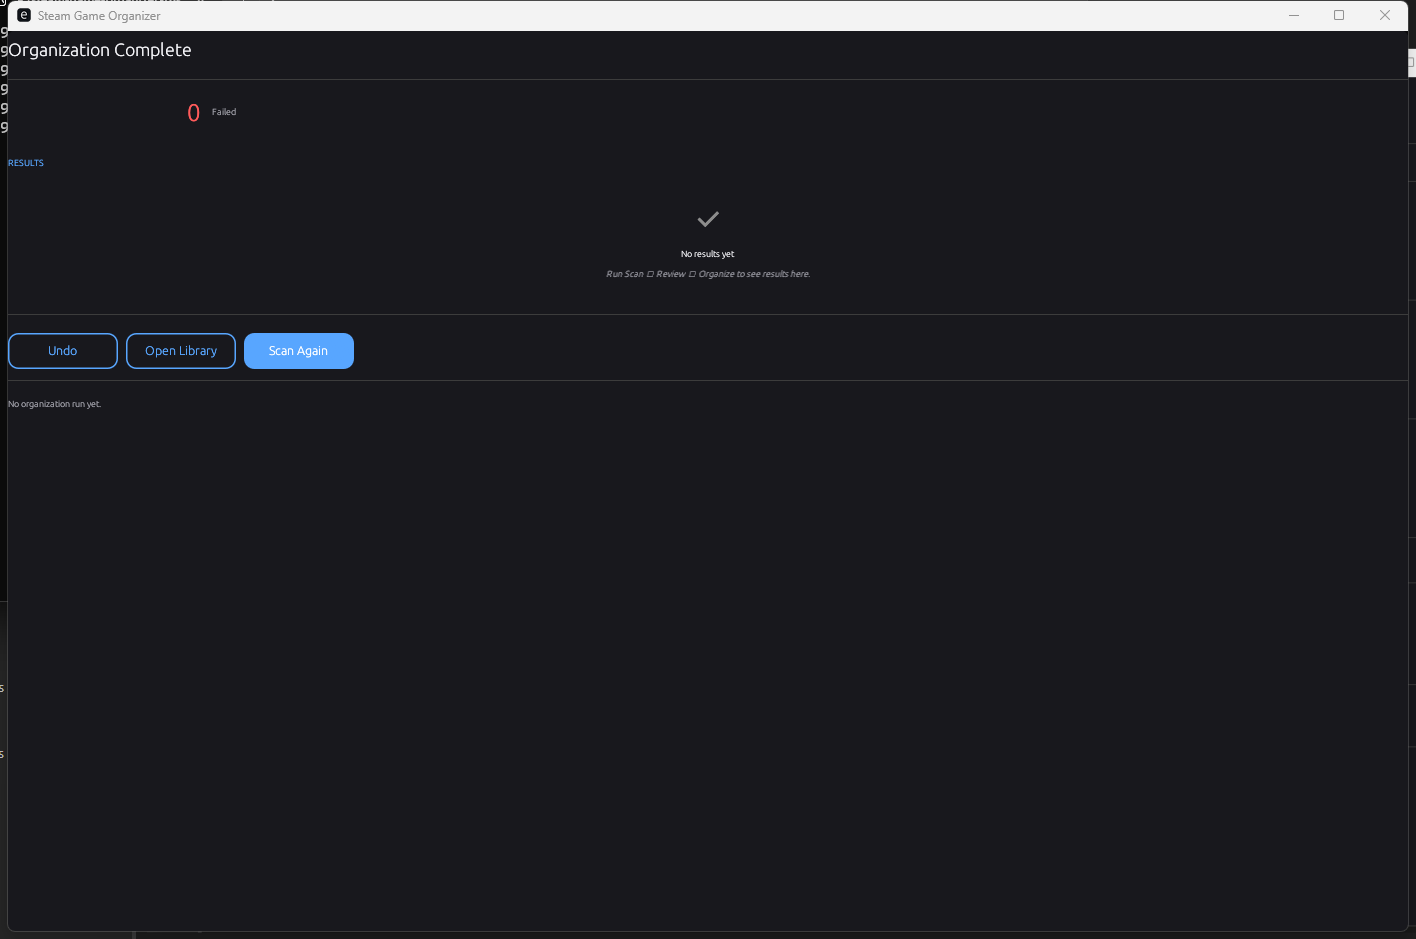
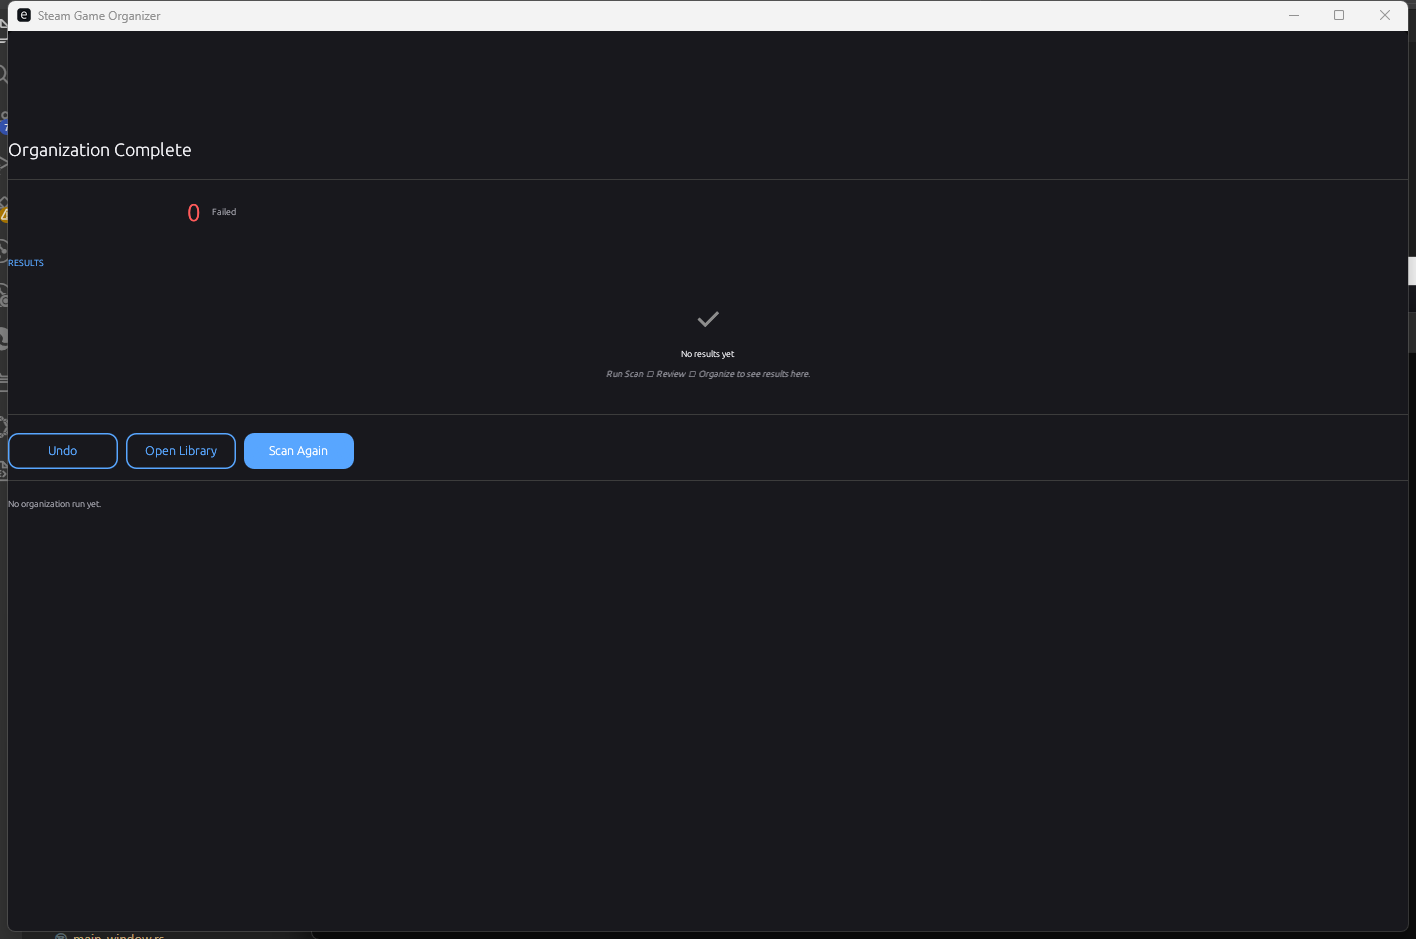
fix(ui): max-width constraint to fix empty space on maximized screens
- Add constrained_content() helper in theme.rs with 1200px max-width
- Wrap main content and single-view content in constrained_content
- Removed unused card_centered() helper
- Simplified stat_card() with set_min_width(150.0)
- Recapture all 6 view screenshots with centered layout
- 320 tests pass, clippy clean

diff --git a/src/ui/main_window.rs b/src/ui/main_window.rs
@@ -21,7 +21,7 @@ use crate::ui::setup_view::SetupView;
 use egui::RichText;
 use crate::ui::theme::{
     card, ghost_button, nav_item, secondary_button,
-    separator, SPACING, SPACING_XL, Palette,
+    separator, constrained_content, SPACING, SPACING_XL, Palette,
 };
 
 const NAV_ITEMS: &[(&str, &str, &str)] = &[
@@ -290,23 +290,26 @@ impl eframe::App for MainWindow {
 
         // Single-view mode: render only the requested view without sidebar or top bar
         if let Some(view) = self.single_view.clone() {
+            let palette = self.palette.clone();
             egui::CentralPanel::default()
                 .frame(egui::Frame {
-                    fill: self.palette.bg,
+                    fill: palette.bg,
                     ..Default::default()
                 })
                 .show(ctx, |ui| {
-                    ui.add_space(SPACING);
-                    match view.as_str() {
-                        "scan" => self.render_scan(ui),
-                        "review" => self.render_review(ui),
-                        "organize" => self.render_organize(ui),
-                        "artwork" => self.render_artwork(ui),
-                        "done" => self.render_done(ui),
-                        "setup" => self.render_setup(ui),
-                        _ => self.render_scan(ui),
-                    }
-                    ui.add_space(SPACING_XL);
+                    constrained_content(ui, 1200.0, |ui| {
+                        ui.add_space(SPACING);
+                        match view.as_str() {
+                            "scan" => self.render_scan(ui),
+                            "review" => self.render_review(ui),
+                            "organize" => self.render_organize(ui),
+                            "artwork" => self.render_artwork(ui),
+                            "done" => self.render_done(ui),
+                            "setup" => self.render_setup(ui),
+                            _ => self.render_scan(ui),
+                        }
+                        ui.add_space(SPACING_XL);
+                    });
                 });
             return;
         }
@@ -332,24 +335,28 @@ impl eframe::App for MainWindow {
                 self.render_nav_sidebar(ui);
             });
 
-        // Main content: view stack
+        // Main content: view stack — wrapped in centered max-width container
+        // so content doesn't stretch awkwardly on maximized / ultra-wide screens.
+        let palette = self.palette.clone();
         egui::CentralPanel::default()
             .frame(egui::Frame {
-                fill: self.palette.bg,
+                fill: palette.bg,
                 ..Default::default()
             })
             .show(ctx, |ui| {
-                ui.add_space(SPACING);
-                match self.current.as_str() {
-                    "scan" => self.render_scan(ui),
-                    "review" => self.render_review(ui),
-                    "organize" => self.render_organize(ui),
-                    "artwork" => self.render_artwork(ui),
-                    "done" => self.render_done(ui),
-                    "setup" => self.render_setup(ui),
-                    _ => self.render_scan(ui),
-                }
-                ui.add_space(SPACING_XL);
+                constrained_content(ui, 1200.0, |ui| {
+                    ui.add_space(SPACING);
+                    match self.current.as_str() {
+                        "scan" => self.render_scan(ui),
+                        "review" => self.render_review(ui),
+                        "organize" => self.render_organize(ui),
+                        "artwork" => self.render_artwork(ui),
+                        "done" => self.render_done(ui),
+                        "setup" => self.render_setup(ui),
+                        _ => self.render_scan(ui),
+                    }
+                    ui.add_space(SPACING_XL);
+                });
             });
     }
 

diff --git a/src/ui/theme.rs b/src/ui/theme.rs
@@ -250,19 +250,58 @@ pub fn card(ui: &mut egui::Ui, palette: &Palette, contents: impl FnOnce(&mut egu
         CORNER_RADIUS,
         palette.panel2,
     );
-    // Border drawn via rect_stroke requires egui API; skipping for compatibility.
     contents(ui);
 }
 
-/// A stat card showing a number with a label.
+/// A stat card showing a number with a label — fixed width for uniform grid layout.
 pub fn stat_card(ui: &mut egui::Ui, palette: &Palette, value: &str, label: &str, color: Color32) {
     card(ui, palette, |ui| {
+        ui.set_min_width(150.0);
         ui.add_space(SPACING);
         ui.label(RichText::new(value).color(color).strong().size(24.0));
         ui.add_space(SPACING / 2.0);
         ui.label(RichText::new(label).color(palette.text_secondary).small());
         ui.add_space(SPACING);
     });
+}
+
+/// A card container with max-width constraint, centered horizontally.
+/// Prevents content from stretching awkwardly on wide screens.
+pub fn card_centered(
+    ui: &mut egui::Ui,
+    palette: &Palette,
+    max_width: f32,
+    contents: impl FnOnce(&mut egui::Ui),
+) {
+    let available_width = ui.available_width();
+    let card_width = available_width.min(max_width);
+    let left_margin = (available_width - card_width) / 2.0;
+    ui.add_space(left_margin);
+    ui.set_max_width(card_width);
+    ui.painter().rect_filled(
+        ui.min_rect().expand(1.0),
+        CORNER_RADIUS,
+        palette.panel2,
+    );
+    contents(ui);
+    ui.add_space(left_margin);
+}
+
+/// Wrap content in a horizontally centered container with max-width.
+/// Use this at the top of each view to prevent content from stretching
+/// awkwardly on maximized / ultra-wide screens.
+pub fn constrained_content(
+    ui: &mut egui::Ui,
+    max_width: f32,
+    contents: impl FnOnce(&mut egui::Ui),
+) {
+    let available_width = ui.available_width();
+    let content_width = available_width.min(max_width);
+    let left_margin = (available_width - content_width) / 2.0;
+    ui.add_space(left_margin);
+    ui.set_max_width(content_width);
+    contents(ui);
+    ui.add_space(left_margin);
 }
 
 /// An info card showing a key-value pair.

diff --git a/CHANGELOG.md b/CHANGELOG.md
@@ -23,6 +23,13 @@ Each entry starts with a type prefix:
 
 ## Unreleased
 
+### 2026-11-26 — fix: UI layout max-width constraint to fix empty space on maximized screens
+
+- `src/ui/theme.rs`: Added `constrained_content()` helper that wraps view content in a centered max-width (1200px) container; removed `card_centered()` (unused); simplified `stat_card()` with `set_min_width(150.0)` for uniform stat card sizing
+- `src/ui/main_window.rs`: Wrapped main content and single-view content in `constrained_content(ui, 1200.0, ...)` so content doesn't stretch full-width on maximized / ultra-wide screens; clone palette to satisfy borrow checker
+- All 6 view screenshots recaptured with centered layout
+- 320 tests pass, clippy clean
+
 ### 2026-11-26 — feat: OCR verification for capture_screens with --ocr flag
 
 - `src/tools/capture_screens.rs`: Added `--ocr` flag that runs Tesseract OCR on captured screenshots and verifies expected UI text per view
